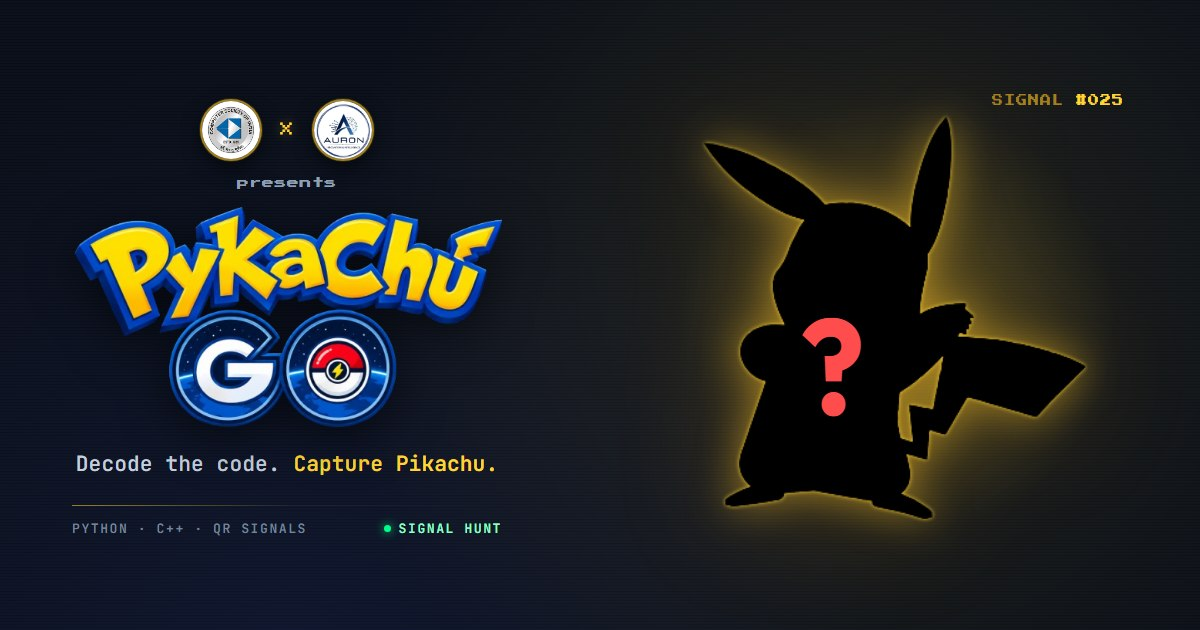
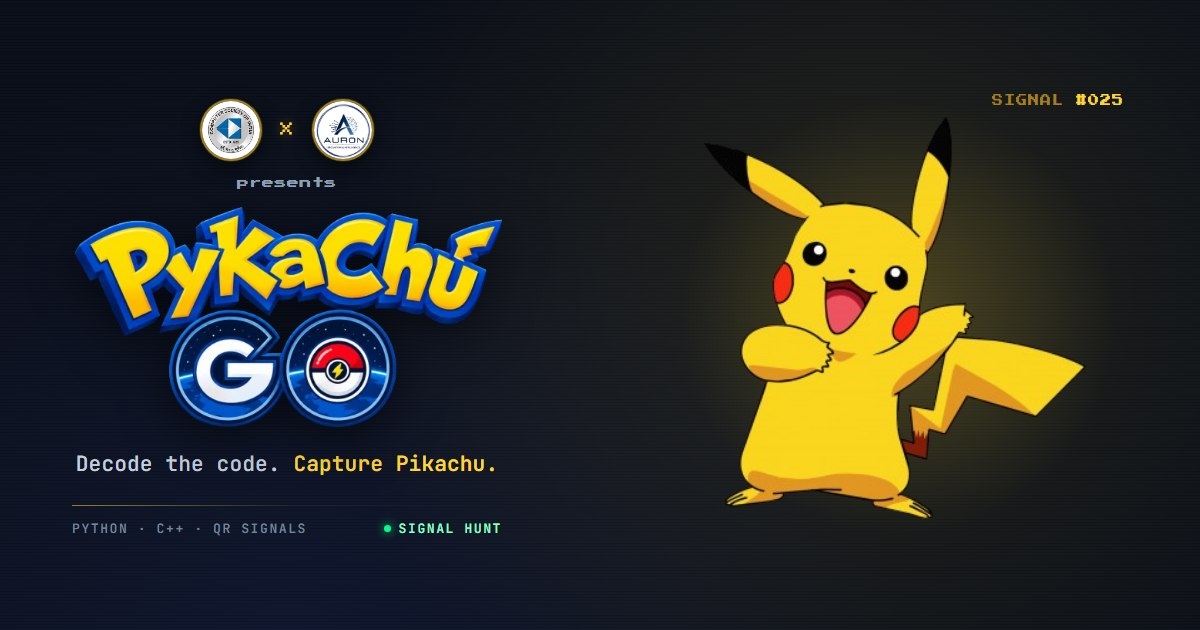
Move helper scripts into html/js folders

Changed region(s): [[0.5858, 0.181, 0.925, 0.8444]]

diff --git a/html/og-card.html b/html/og-card.html
@@ -351,49 +351,6 @@
             width: 100%;
 
             height: auto;
-
-            filter:
-                brightness(0) saturate(0) drop-shadow(0 0 2px rgba(255, 214, 51, 0.90)) drop-shadow(0 0 20px rgba(255, 196, 40, 0.50)) drop-shadow(0 0 58px rgba(230, 160, 20, 0.22));
-        }
-
-        /* =========================================================
-           QUESTION MARK
-           
-           A normal (non-pixel) bold sans glyph, no glow, positioned
-           over the Pikachu body.
-        ========================================================= */
-
-        .question-mark {
-            position: absolute;
-
-            /*
-              The silhouette's visual body centre is not its box centre: the
-              artwork has transparent padding, one ear sits top-right and the
-              tail pulls mass to the bottom-right. Measured on pikachu.png, the
-              thick lower-left body lobe sits around 33% / 62% of the image.
-              The sub-pixel offsets correct the Outfit "?" ink bearing so the
-              glyph ink - not its box - lands on that point.
-            */
-            left: 33%;
-            top: 62%;
-
-            transform: translate(calc(-50% + 1.1px), calc(-50% + 0.1px));
-
-            z-index: 5;
-
-            font-family: var(--sans);
-
-            font-size: 132px;
-
-            font-weight: 700;
-
-            line-height: 1;
-
-            color: #ff4d4d;
-
-            pointer-events: none;
-
-            user-select: none;
         }
 
         /* =========================================================
@@ -502,11 +459,6 @@
             <div class="pika">
 
                 <img src="../assets/img/pikachu.png" alt="Pikachu silhouette">
-
-                <!-- QUESTION MARK -->
-                <div class="question-mark">
-                    ?
-                </div>
 
             </div>
 

diff --git a/README.md b/README.md
@@ -976,7 +976,7 @@ during a full reset and must not be placed in `.env`, GitHub Actions secrets, or
 `runtime-config.js`.
 
 `npm run serve` generates the ignored `js/runtime-config.js` from `.env` (via
-`scripts/generate-runtime-config.cjs`) and loads it before both the player and
+`js/generate-runtime-config.cjs`) and loads it before both the player and
 admin app. The generated file is still delivered to browsers, so it is
 configuration hygiene — not a security boundary.
 
@@ -1053,10 +1053,10 @@ block near the top of `index.html` — canonical link, `og:url`, `og:image`,
 The card artwork is `assets/img/og-card.jpg` (1200×630, kept under 300 KB so
 WhatsApp does not shrink it to a thumbnail). It reuses the splash screen's
 visual language — dark CRT screen, gold accents and a shadow-only Pikachu —
-and is generated from `scripts/og-card.html`. Regenerate after branding changes:
+and is generated from `html/og-card.html`. Regenerate after branding changes:
 
 ```bash
-npm run og:card   # renders scripts/og-card.html via headless Chrome/Edge
+npm run og:card   # renders html/og-card.html via headless Chrome/Edge
 ```
 
 Crawlers cache previews for days/weeks: after deploying, re-scrape the URL with
